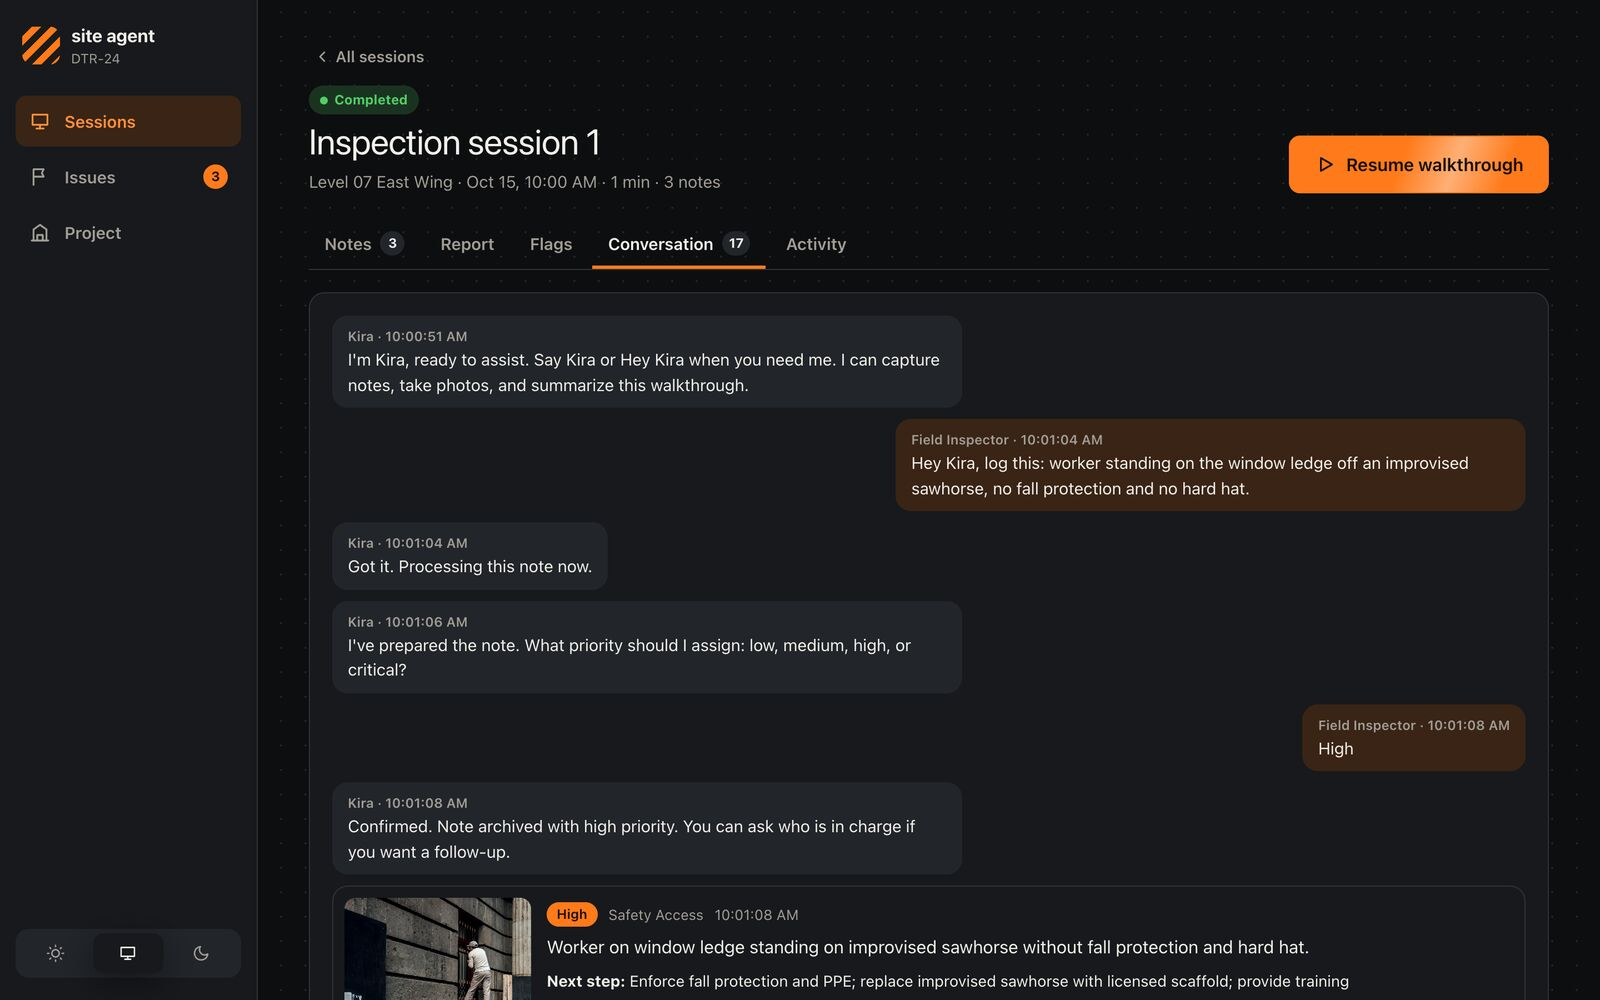
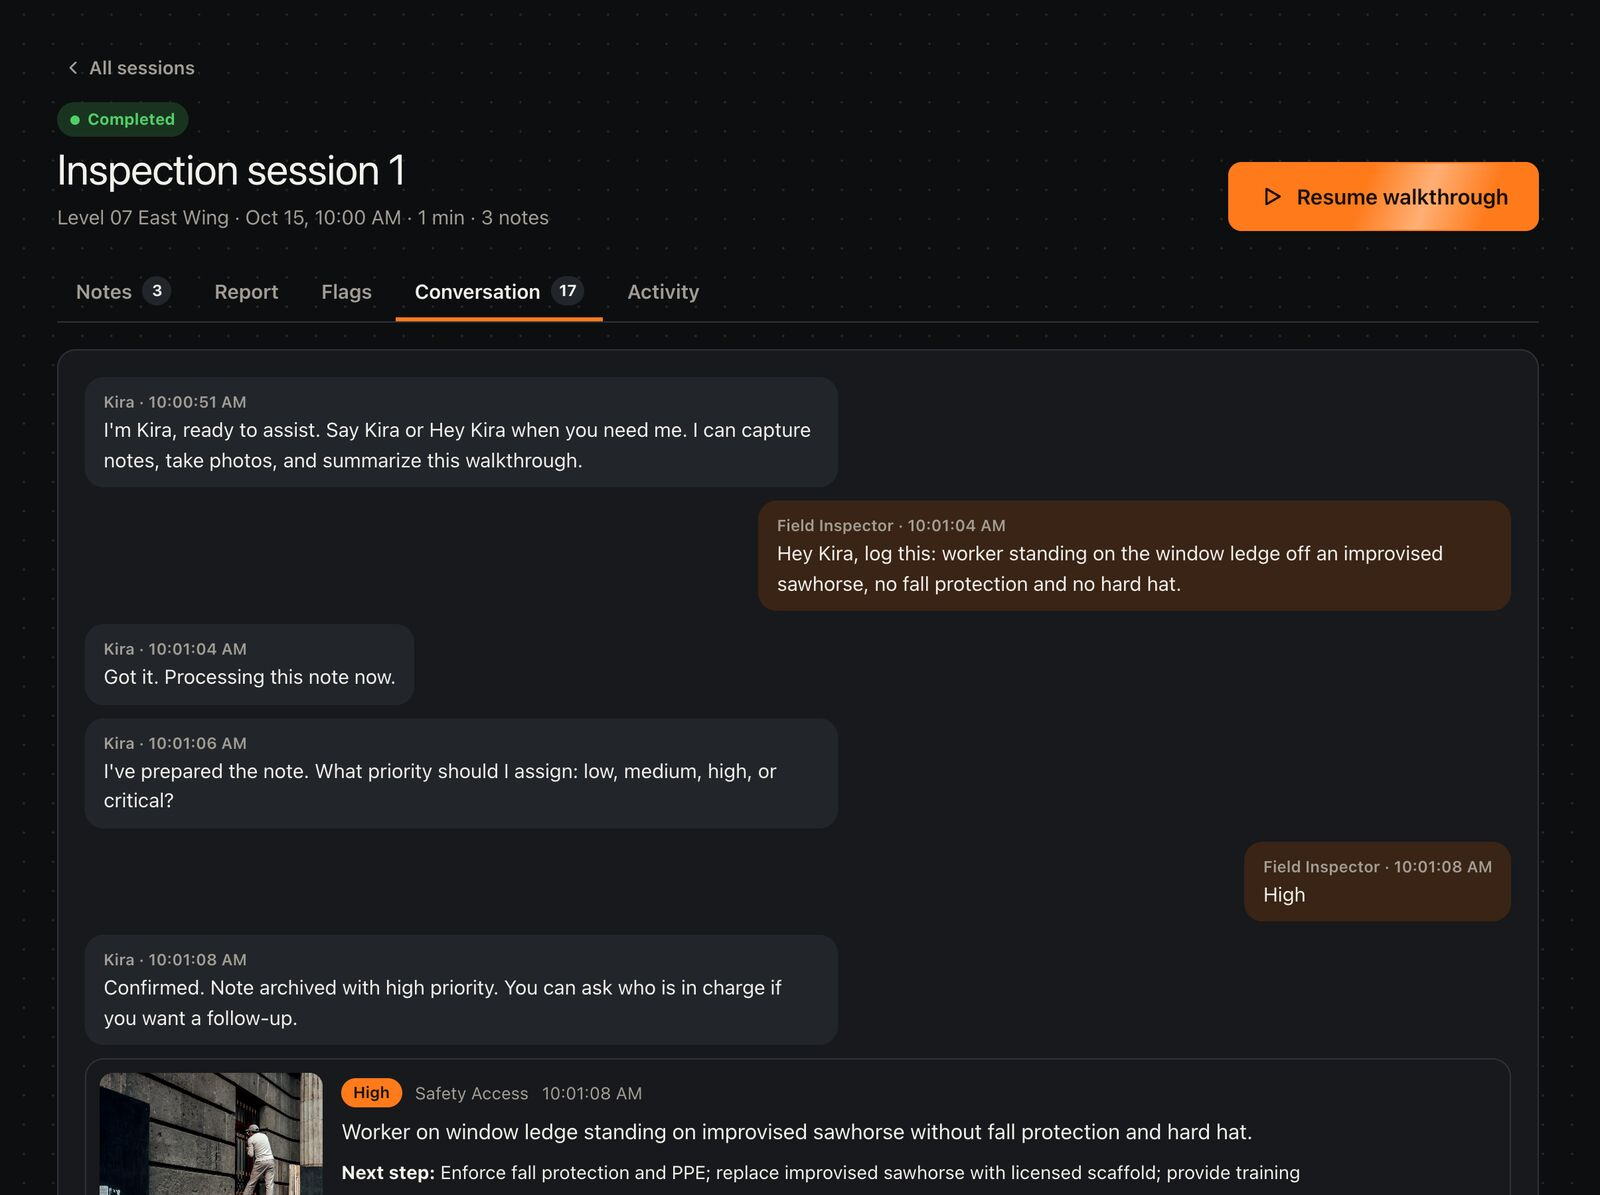
Mark live features, drop invented specs, learning module, phone layout and menu

diff --git a/index.html b/index.html
@@ -73,6 +73,8 @@
   .logo i::after { content: ""; position: absolute; inset: 4px; background: var(--hi); }
   .links { display: flex; align-items: center; gap: 30px; font-size: 15px; color: var(--muted); }
   .links a:not(.button):hover { color: var(--text); }
+  .menu { display: none; order: 2; width: 44px; height: 44px; margin-left: 12px; background: none; border: 1px solid var(--line); color: var(--text); font-size: 18px; cursor: pointer; }
+  .frame { display: block; }
   .links .button { padding: 11px 18px; }
 
   /* Hero */
@@ -114,6 +116,8 @@
   .device ul { list-style: none; padding: 0; margin: 18px 0 0; font: 500 12px/1 var(--mono); color: var(--muted); }
   .device li { padding: 10px 0; border-top: 1px solid var(--line); display: flex; justify-content: space-between; }
   .device li span { color: var(--text); }
+  .is-live { color: var(--ok) !important; border-color: rgba(61,220,151,0.45); }
+  .is-live::before { content: ""; display: inline-block; width: 6px; height: 6px; border-radius: 50%; background: var(--ok); margin-right: 7px; vertical-align: middle; }
   .phone-ui { position: absolute; left: 50%; bottom: -30px; width: 46%; aspect-ratio: 9 / 18; transform: translateX(-50%); border: 6px solid #0e0f11; border-radius: 26px; overflow: hidden; box-shadow: 0 20px 60px rgba(0,0,0,0.6); }
   .phone-ui img { object-position: 60% 30%; }
   .phone-ui .box { left: 18%; top: 54%; width: 64%; height: 18%; }
@@ -162,6 +166,7 @@
   .tile img { transition: transform 0.8s; }
   .tile:hover img { transform: scale(1.04); }
   .tile .over { position: absolute; inset: 0; display: flex; flex-direction: column; justify-content: flex-end; padding: 32px; background: linear-gradient(180deg, rgba(14,15,17,0) 35%, rgba(14,15,17,0.92)); }
+  .tile.dark .over { background: linear-gradient(180deg, rgba(14,15,17,0) 10%, rgba(14,15,17,0.7) 45%, rgba(14,15,17,0.95)); }
   .tile .tag { align-self: flex-start; margin-bottom: 16px; background: rgba(14,15,17,0.6); }
   .tile h3 { font-size: 30px; margin-bottom: 10px; }
   .tile p { color: #c9cdd3; max-width: 520px; }
@@ -223,6 +228,12 @@
     .tile { aspect-ratio: 4 / 3; }
     .tile:first-child { grid-row: auto; }
     .links a:not(.button) { display: none; }
+    .links { margin-left: auto; }
+    .menu { display: grid; place-items: center; }
+    nav.open { background: var(--bg); border-color: var(--line); }
+    nav.open .links { position: absolute; top: 72px; left: 0; right: 0; flex-direction: column; align-items: stretch; gap: 0; padding: 8px 20px 20px; background: var(--bg); border-bottom: 1px solid var(--line); }
+    nav.open .links a:not(.button) { display: block; padding: 16px 0; border-bottom: 1px solid var(--line); font-size: 17px; color: var(--text); }
+    nav.open .links .button { margin-top: 16px; justify-content: center; }
     .viewer .flag { display: none; }
   }
   @media (max-width: 640px) {
@@ -230,7 +241,12 @@
     .wrap { padding: 0 20px; }
     .demo-form { grid-template-columns: 1fr; }
     .hero { padding-top: 120px; }
-    .stats .wrap, .devices, .features, .team { grid-template-columns: 1fr; }
+    .stats .wrap, .devices, .features { grid-template-columns: 1fr; }
+    .team { grid-template-columns: repeat(2, 1fr); }
+    .person:last-child:nth-child(odd) { grid-column: 1 / -1; }
+    .tile { aspect-ratio: auto; min-height: 460px; }
+    .tile .over { padding: 24px; }
+    .tile h3 { font-size: 26px; }
     .stat, .stat + .stat { padding: 32px 0; border-right: 0; border-bottom: 1px solid var(--line); }
     .stat:last-child { border-bottom: 0; }
     .viewer { aspect-ratio: 4 / 5; }
@@ -238,6 +254,8 @@
     .viewer .box { display: none; }
     .hero .button + .button { margin: 10px 0 0; }
     .caption { left: 12px; right: 12px; bottom: 12px; }
+    .viewer .hud { left: 12px !important; right: auto !important; top: 12px !important; }
+    .viewer .hud + .hud { top: 48px !important; }
     .msg.note { grid-template-columns: 1fr; }
   }
 </style>
@@ -247,6 +265,7 @@
 <nav id="nav">
   <div class="wrap">
     <a class="logo" href="#"><i></i>Walkscribe</a>
+    <button class="menu" type="button" aria-label="Menu" aria-expanded="false">☰</button>
     <div class="links">
       <a href="#hardware">Hardware</a>
       <a href="#how">How it works</a>
@@ -305,25 +324,25 @@
     </div>
     <div class="devices reveal">
       <div class="device">
-        <div class="shot"><img src="img/phone.jpg" alt="Inspectors on a rebar deck"><div class="phone-ui"><img src="img/phone.jpg" alt=""><div class="box warn"><b>Rebar</b></div></div></div>
+        <div class="shot"><img src="img/phone.jpg" alt="Inspectors on a rebar deck"><div class="phone-ui"><img src="img/phone.jpg" alt=""><div class="box ok"><b>Hard hat ✓</b></div></div></div>
         <div class="body"><h3>Kira Mobile</h3><p>The full assistant in a phone browser. Nothing to install.</p>
-          <ul><li>Platform<span>iOS · Android</span></li><li>Setup<span>&lt; 1 min</span></li></ul></div>
+          <ul><li>Runs in<span>Phone browser</span></li><li>Status<span class="is-live">Live</span></li></ul></div>
       </div>
       <div class="device">
         <div class="shot"><img src="img/hardhat.jpg" alt="Worker in hard hat with headset"></div>
         <div class="body"><h3>Hard-hat Module</h3><p>Clip-on RGB and depth camera with mic and WiFi. Fully hands-free.</p>
-          <ul><li>Sensors<span>RGB + depth</span></li><li>Battery<span>Full shift</span></li></ul></div>
+          <ul><li>Sensors<span>RGB + depth</span></li><li>Mount<span>Clip-on</span></li></ul></div>
       </div>
       <div class="device">
         <div class="shot"><img src="img/glasses.jpg" alt="Worker in hard hat and safety glasses"></div>
-        <div class="body"><h3>Smart Safety Glasses</h3><p>Point-of-view camera and audio in ANSI-rated eyewear.</p>
-          <ul><li>Rating<span>ANSI Z87.1</span></li><li>Audio<span>Open-ear</span></li></ul></div>
+        <div class="body"><h3>Smart Safety Glasses</h3><p>Point-of-view camera and audio in safety eyewear.</p>
+          <ul><li>View<span>Point of view</span></li><li>Audio<span>Voice in and out</span></li></ul></div>
       </div>
       <div class="device">
         <div class="shot"><img src="img/structure.jpg" alt="Building structure under construction">
           <div class="laser-lines"><i style="left:12%;right:12%;top:46%;height:2px"></i><i style="top:18%;bottom:18%;left:50%;width:2px"></i><i style="left:30%;top:30%;width:40%;height:2px"></i><i style="left:30%;top:30%;width:2px;height:32%"></i><i style="left:70%;top:30%;width:2px;height:32%"></i></div></div>
         <div class="body"><h3>Laser Projector</h3><p>Projects layouts and install steps onto walls and floors at full scale.</p>
-          <ul><li>Accuracy<span>±2 mm</span></li><li>Range<span>Up to 10 m</span></li></ul></div>
+          <ul><li>Output<span>Full-scale layouts</span></li><li>Guided by<span>Kira</span></li></ul></div>
       </div>
     </div>
   </div>
@@ -384,13 +403,13 @@
 <section id="app" style="padding-top:40px">
   <div class="wrap">
     <div class="head reveal">
-      <div><span class="tag">The app</span><h2>Real screens.<br>Real walkthrough.</h2></div>
+      <div><span class="tag">The app</span> <span class="tag is-live">Live today</span><h2>Real screens.<br>Real walkthrough.</h2></div>
       <p class="lead">Captured from a live inspection session.</p>
     </div>
     <div class="screens">
-      <figure class="reveal"><div class="frame"><img src="img/app-live.jpg" alt="Live camera view with Kira asking for the priority of a new note" loading="lazy" width="1600" height="1000"></div><figcaption>Kira asks for priority before saving</figcaption></figure>
-      <figure class="reveal"><div class="frame"><img src="img/app-notes.jpg" alt="Notes tab listing three notes, each with its photo and priority" loading="lazy" width="1600" height="1000"></div><figcaption>Every note with its photo</figcaption></figure>
-      <figure class="reveal"><div class="frame"><img src="img/app-convo.jpg" alt="Conversation with a saved note card under the Kira reply" loading="lazy" width="1600" height="1000"></div><figcaption>Notes anchored in the conversation</figcaption></figure>
+      <figure class="reveal"><a class="frame" href="img/app-live.jpg" target="_blank" rel="noopener"><img src="img/app-live.jpg" alt="Live camera view with Kira asking for the priority of a new note" loading="lazy" width="1600" height="1000"></a><figcaption>Kira asks for priority before saving</figcaption></figure>
+      <figure class="reveal"><a class="frame" href="img/app-notes.jpg" target="_blank" rel="noopener"><img src="img/app-notes.jpg" alt="Notes tab listing three notes, each with its photo and priority" loading="lazy" width="1600" height="1195"></a><figcaption>Every note with its photo</figcaption></figure>
+      <figure class="reveal"><a class="frame" href="img/app-convo.jpg" target="_blank" rel="noopener"><img src="img/app-convo.jpg" alt="Conversation with a saved note card under the Kira reply" loading="lazy" width="1600" height="1195"></a><figcaption>Notes anchored in the conversation</figcaption></figure>
     </div>
   </div>
 </section>
@@ -422,14 +441,14 @@
   <div class="wrap">
     <div class="head reveal">
       <div><span class="tag">Beyond inspection</span><h2>From finding problems<br>to fixing them.</h2></div>
-      <p class="lead">Kira doesn't stop at the report. The same assistant guides installs, trains new crews and remembers every walk.</p>
+      <p class="lead">Kira doesn't stop at the report. The same assistant guides installs, teaches new managers and remembers every walk.</p>
     </div>
     <div class="tiles reveal">
       <div class="tile"><img src="img/laser.jpg" alt="Building floors under construction">
         <div class="laser-lines"><i style="left:8%;right:8%;top:38%;height:2px"></i><i style="left:8%;right:8%;top:72%;height:2px"></i><i style="left:36%;top:20%;width:2px;height:62%"></i><i style="left:64%;top:20%;width:2px;height:62%"></i></div>
-        <div class="over"><span class="tag">Laser guidance</span><h3>Projected installation instructions</h3><p>The laser projector puts anchor points, cut lines and install sequences onto the surface at full scale. Crews follow the light, and Kira checks the result.</p></div></div>
-      <div class="tile"><img src="img/training.jpg" alt="Crew in hard hats learning on site">
-        <div class="over"><span class="tag">Training</span><h3>On-site teaching module</h3><p>Guided lessons for new workers, built on real site footage, checked as they go.</p></div></div>
+        <div class="over"><span class="tag">Laser guidance</span><h3>Projected installation instructions</h3><p>The laser projector puts anchor points, cut lines and install sequences onto the surface at full scale. Crews follow the light.</p></div></div>
+      <div class="tile dark"><img src="img/learning.jpg" alt="Trainee working on an electrical panel" style="object-position:25% 35%">
+        <div class="over"><span class="tag">Learning</span><h3>Learn on the walk</h3><p>Point at an air-handling unit or an electrical box. Kira explains what it is, how it fits the system, and what your SOPs say to check and photograph.</p></div></div>
       <div class="tile"><img src="img/memory.jpg" alt="Building facade" style="object-position:center 30%">
         <div class="over"><span class="tag">Project memory</span><h3>Every walk, searchable</h3><p>"When did we last see water at the east stair?" Get the note, the photo and who followed up.</p></div></div>
     </div>
@@ -457,7 +476,7 @@
   <div class="wrap reveal">
     <span class="tag">Standing InnOvation Showcase 2026</span>
     <h2>See Kira live<br>at our table.</h2>
-    <p class="lead">Pick up the phone and run a two-minute inspection. Or get in touch to bring Walkscribe to your site.</p>
+    <p class="lead">Walk through a live inspection at our table. Or get in touch to bring Walkscribe to your site.</p>
     <form class="demo-form" action="https://formspree.io/f/mwlvavqd" method="POST">
       <input name="name" placeholder="Name" autocomplete="name" required>
       <input name="email" type="email" placeholder="Work email" autocomplete="email" required>
@@ -503,6 +522,10 @@
 
 <script>
   const nav = document.getElementById("nav");
+  const menu = nav.querySelector(".menu");
+  const setMenu = (open) => { nav.classList.toggle("open", open); menu.setAttribute("aria-expanded", open); menu.textContent = open ? "✕" : "☰"; };
+  menu.addEventListener("click", () => setMenu(!nav.classList.contains("open")));
+  nav.querySelectorAll(".links a").forEach((a) => a.addEventListener("click", () => setMenu(false)));
   const onScroll = () => nav.classList.toggle("solid", scrollY > 40);
   addEventListener("scroll", onScroll, { passive: true });
   onScroll();
